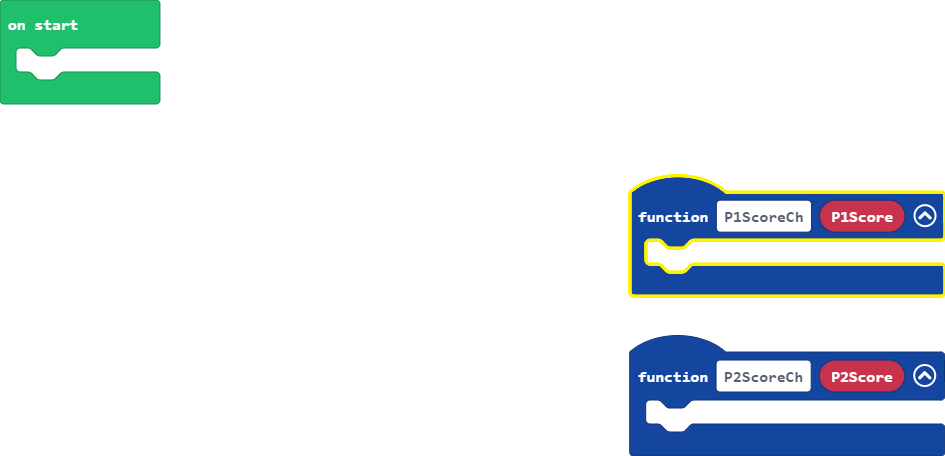
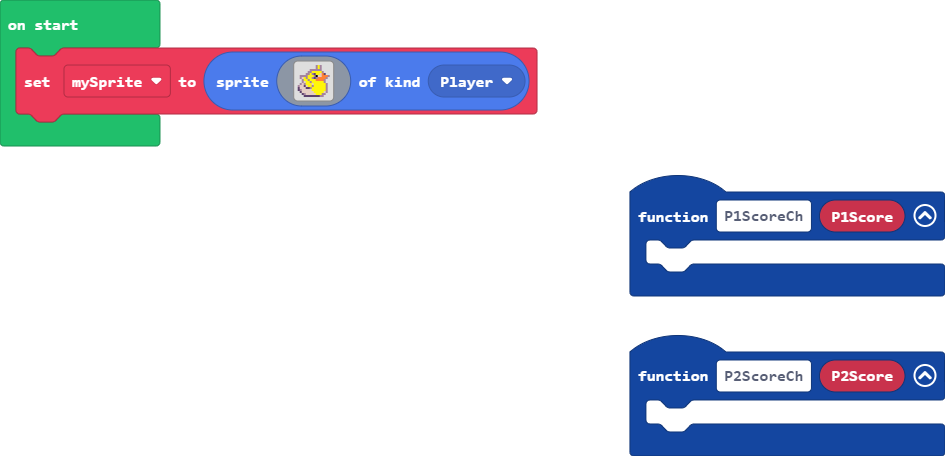
duck

diff --git a/main.ts b/main.ts
@@ -4,3 +4,21 @@ function P1ScoreCh (P1Score: any[]) {
 function P2ScoreCh (P2Score: any[]) {
 	
 }
+let mySprite = sprites.create(img`
+    . . . . . . . . . b 5 b . . . . 
+    . . . . . . . . . b 5 b . . . . 
+    . . . . . . b b b b b b . . . . 
+    . . . . . b b 5 5 5 5 5 b . . . 
+    . . . . b b 5 b c 5 5 d 4 c . . 
+    . b b b b 5 5 5 b f d d 4 4 4 b 
+    . b d 5 b 5 5 b c b 4 4 4 4 b . 
+    . . b 5 5 b 5 5 5 4 4 4 4 b . . 
+    . . b d 5 5 b 5 5 5 5 5 5 b . . 
+    . b d b 5 5 5 d 5 5 5 5 5 5 b . 
+    b d d c d 5 5 b 5 5 5 5 5 5 b . 
+    c d d d c c b 5 5 5 5 5 5 5 b . 
+    c b d d d d d 5 5 5 5 5 5 5 b . 
+    . c d d d d d d 5 5 5 5 5 d b . 
+    . . c b d d d d d 5 5 5 b b . . 
+    . . . c c c c c c c c b b . . . 
+    `, SpriteKind.Player)
